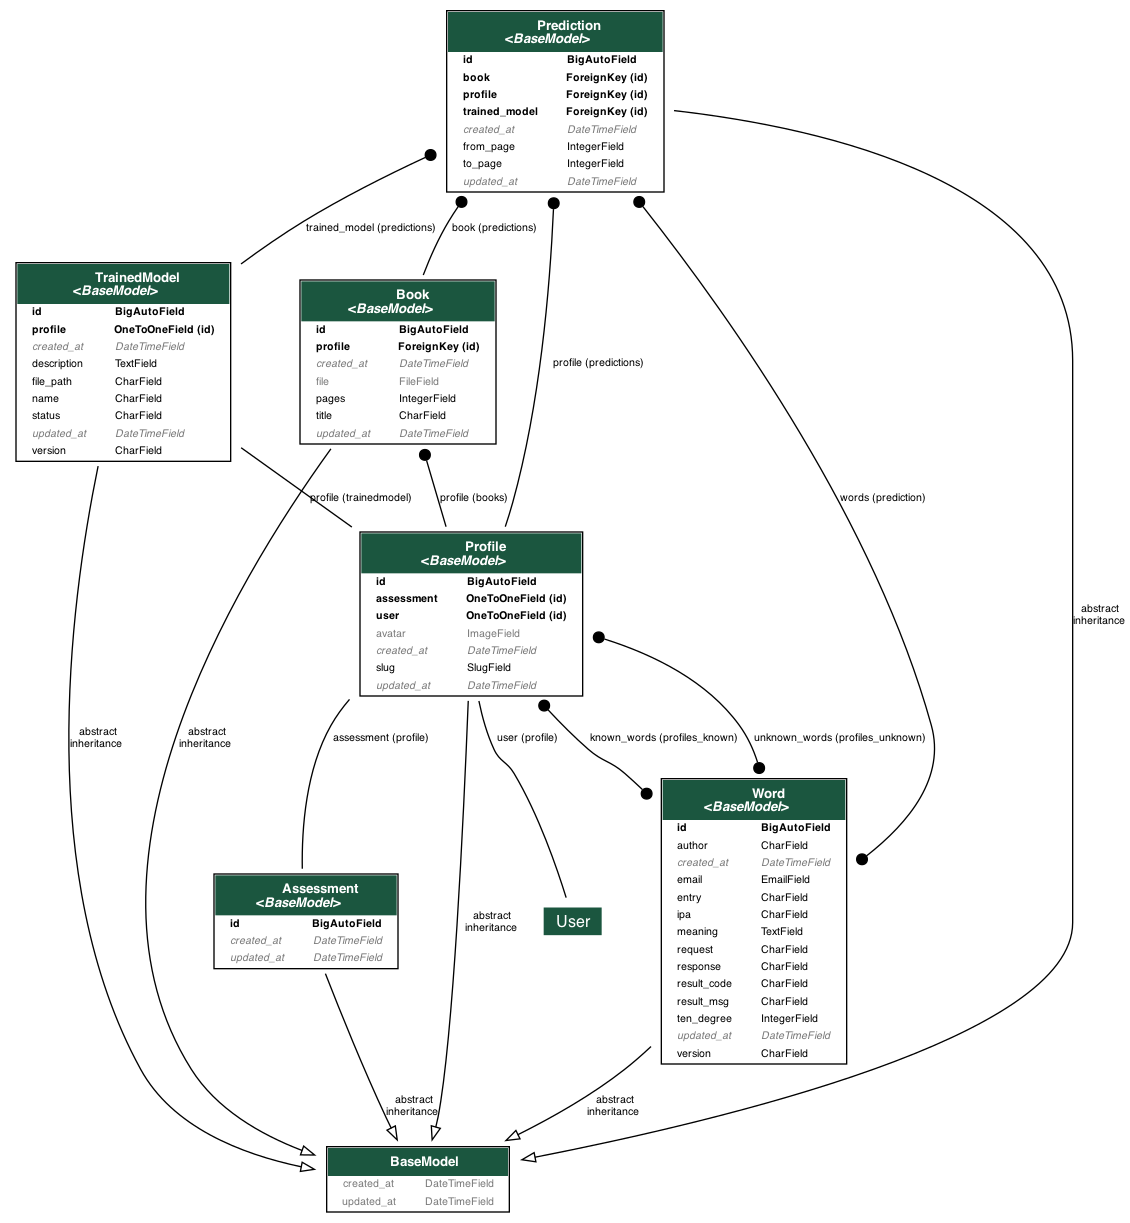
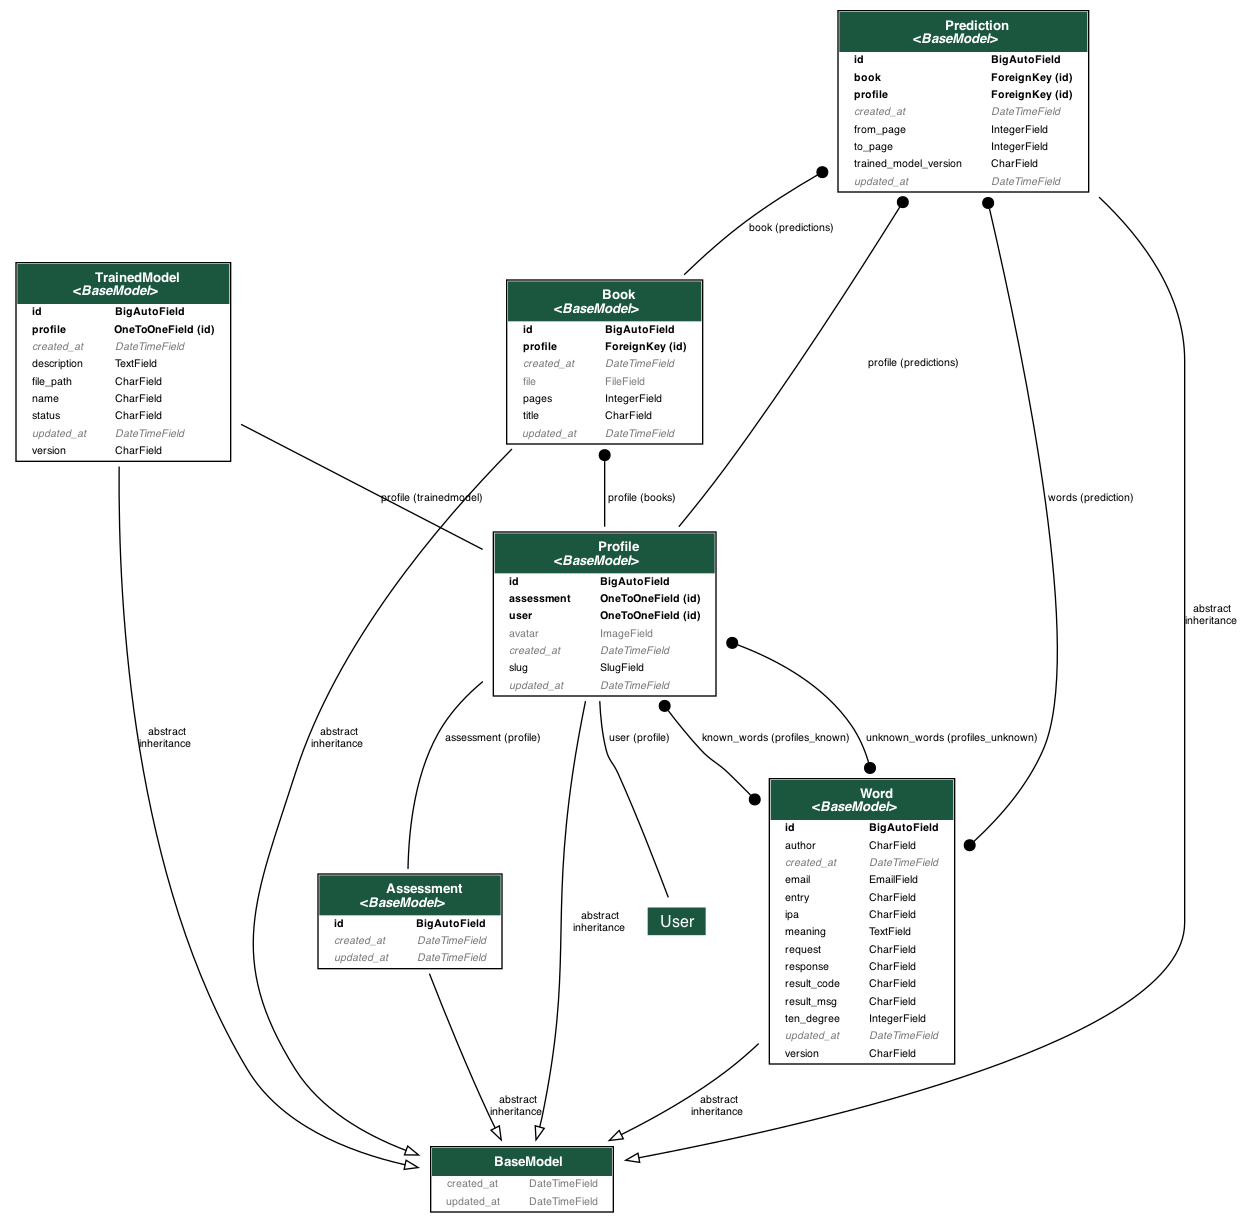
feat: unrealte the prediction to trainedmodel

diff --git a/backend/trainedmodels/views.py b/backend/trainedmodels/views.py
@@ -123,7 +123,7 @@ class FineTuneViewSet(mixins.CreateModelMixin, viewsets.GenericViewSet):
                 if 'error' in result:
                     logger.error(f"An error occurred: {result['error']}")
                     return Response({"error": result['error']}, status=status.HTTP_500_INTERNAL_SERVER_ERROR)
-                self._save_prediction_metadata(profile=pdf.profile, trained_model=pdf.profile.trainedmodel,
+                self._save_prediction_metadata(profile=pdf.profile, trained_model_version=pdf.profile.trainedmodel.version,
                                          unknown_words=result['unknown_words'], book=pdf, from_page=from_page, to_page=to_page)
                 return Response({
                     "unknown_words": result['unknown_words'],
@@ -203,7 +203,8 @@ class FineTuneViewSet(mixins.CreateModelMixin, viewsets.GenericViewSet):
                         "book": prediction.book.title,
                         "from_page": prediction.from_page,
                         "to_page": prediction.to_page,
-                        "created_at": prediction.created_at
+                        "created_at": prediction.created_at,
+                        "trained_model_version": prediction.trained_model_version
                     })
                 return Response(data, status=status.HTTP_200_OK)
             else:
@@ -285,7 +286,7 @@ class FineTuneViewSet(mixins.CreateModelMixin, viewsets.GenericViewSet):
                 'error': str(e)
             }
 
-    def _save_prediction_metadata(self, profile, trained_model, unknown_words, book, from_page, to_page):
+    def _save_prediction_metadata(self, profile, trained_model_version, unknown_words, book, from_page, to_page):
         """
         Saves the prediction metadata to the database.
 
@@ -300,7 +301,7 @@ class FineTuneViewSet(mixins.CreateModelMixin, viewsets.GenericViewSet):
             # Create a new Prediction entry
             prediction = Prediction.objects.create(
                 profile=profile,
-                trained_model=trained_model,
+                trained_model=trained_model_version,
                 book=book,
                 from_page=from_page,
                 to_page=to_page

diff --git a/backend/trainedmodels/models.py b/backend/trainedmodels/models.py
@@ -13,8 +13,8 @@ class TrainedModel(BaseModel):
 
 class Prediction(BaseModel):
     profile = models.ForeignKey(Profile, on_delete=models.CASCADE, related_name="predictions")
-    trained_model = models.ForeignKey(TrainedModel, on_delete=models.CASCADE, related_name="predictions")
     book = models.ForeignKey(Book, on_delete=models.CASCADE, related_name="predictions")
+    trained_model_version = models.CharField(max_length=20)
     from_page = models.IntegerField()
     to_page = models.IntegerField()
     words = models.ManyToManyField(Word)
@@ -24,4 +24,4 @@ class Prediction(BaseModel):
         verbose_name_plural = "Predictions"
 
     def __str__(self):
-        return f"Prediction for {self.profile} using {self.trained_model}"
+        return f"Prediction for {self.profile} using {self.trained_model_version}"

diff --git a/backend/trainedmodels/migrations/0010_remove_prediction_trained_model_and_more.py b/backend/trainedmodels/migrations/0010_remove_prediction_trained_model_and_more.py
@@ -1,0 +1,23 @@
+# Generated by Django 5.0.6 on 2024-05-25 00:02
+
+from django.db import migrations, models
+
+
+class Migration(migrations.Migration):
+
+    dependencies = [
+        ('trainedmodels', '0009_trainedmodel_status_prediction'),
+    ]
+
+    operations = [
+        migrations.RemoveField(
+            model_name='prediction',
+            name='trained_model',
+        ),
+        migrations.AddField(
+            model_name='prediction',
+            name='trained_model_version',
+            field=models.CharField(default='0.1', max_length=20),
+            preserve_default=False,
+        ),
+    ]
